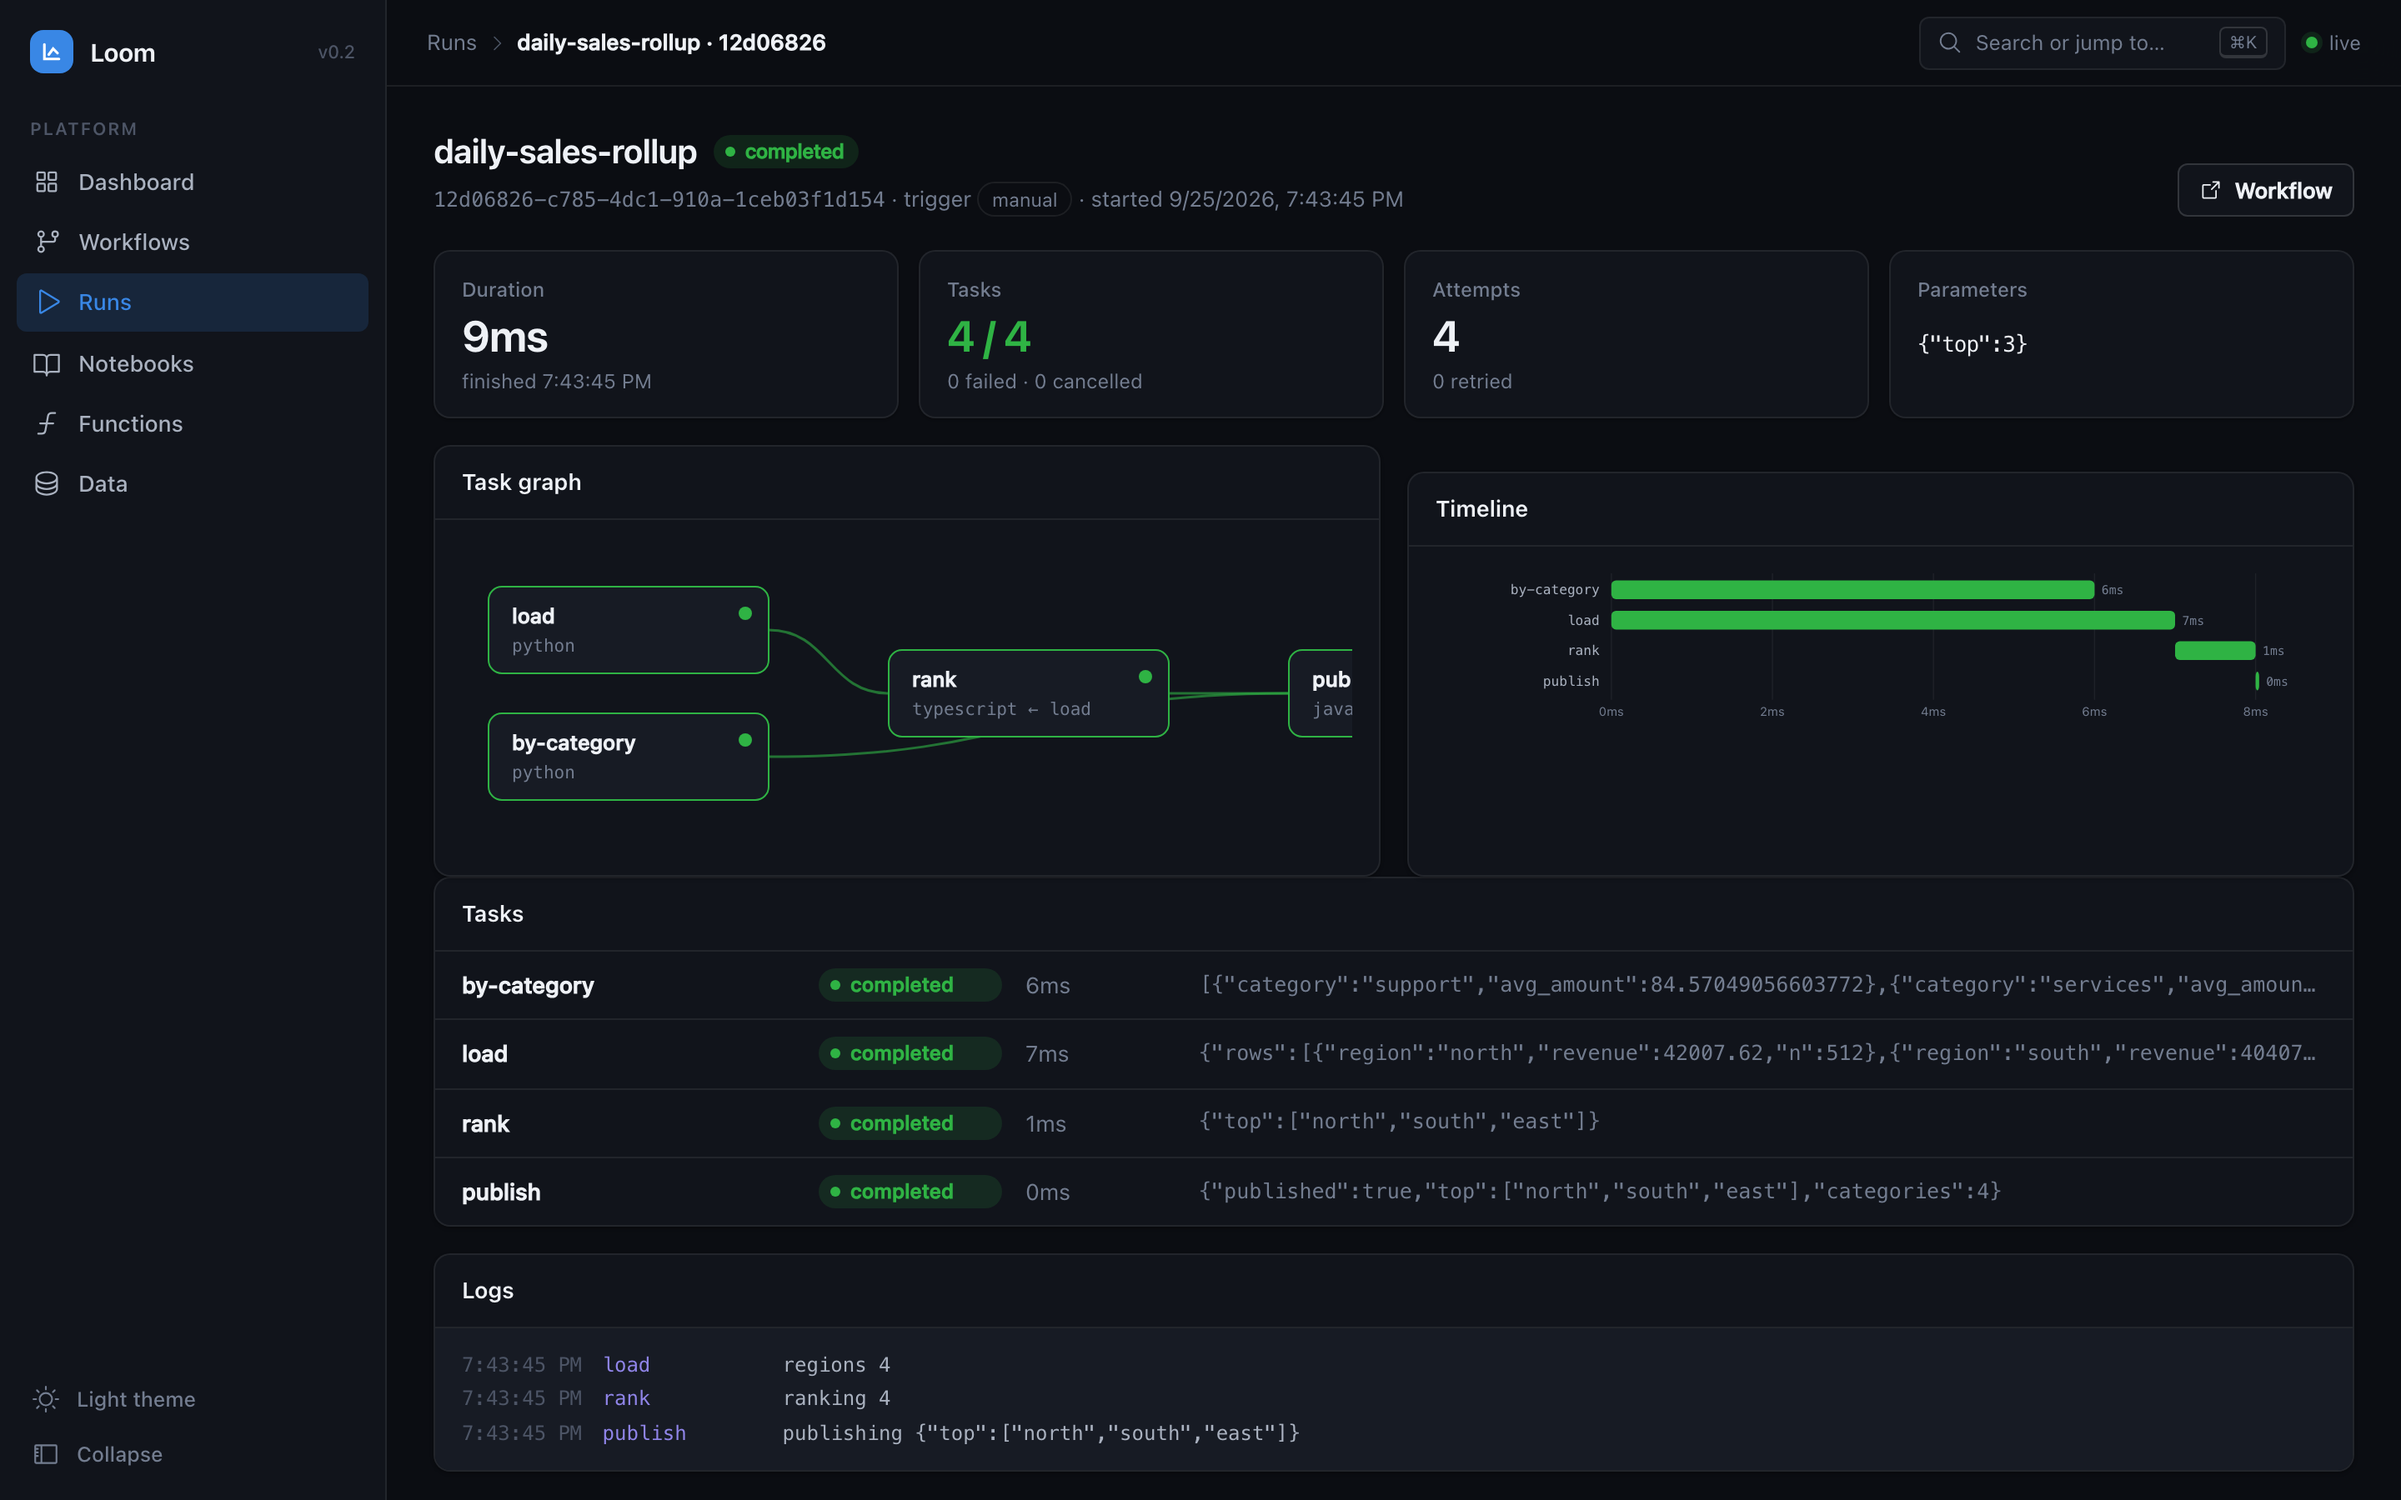
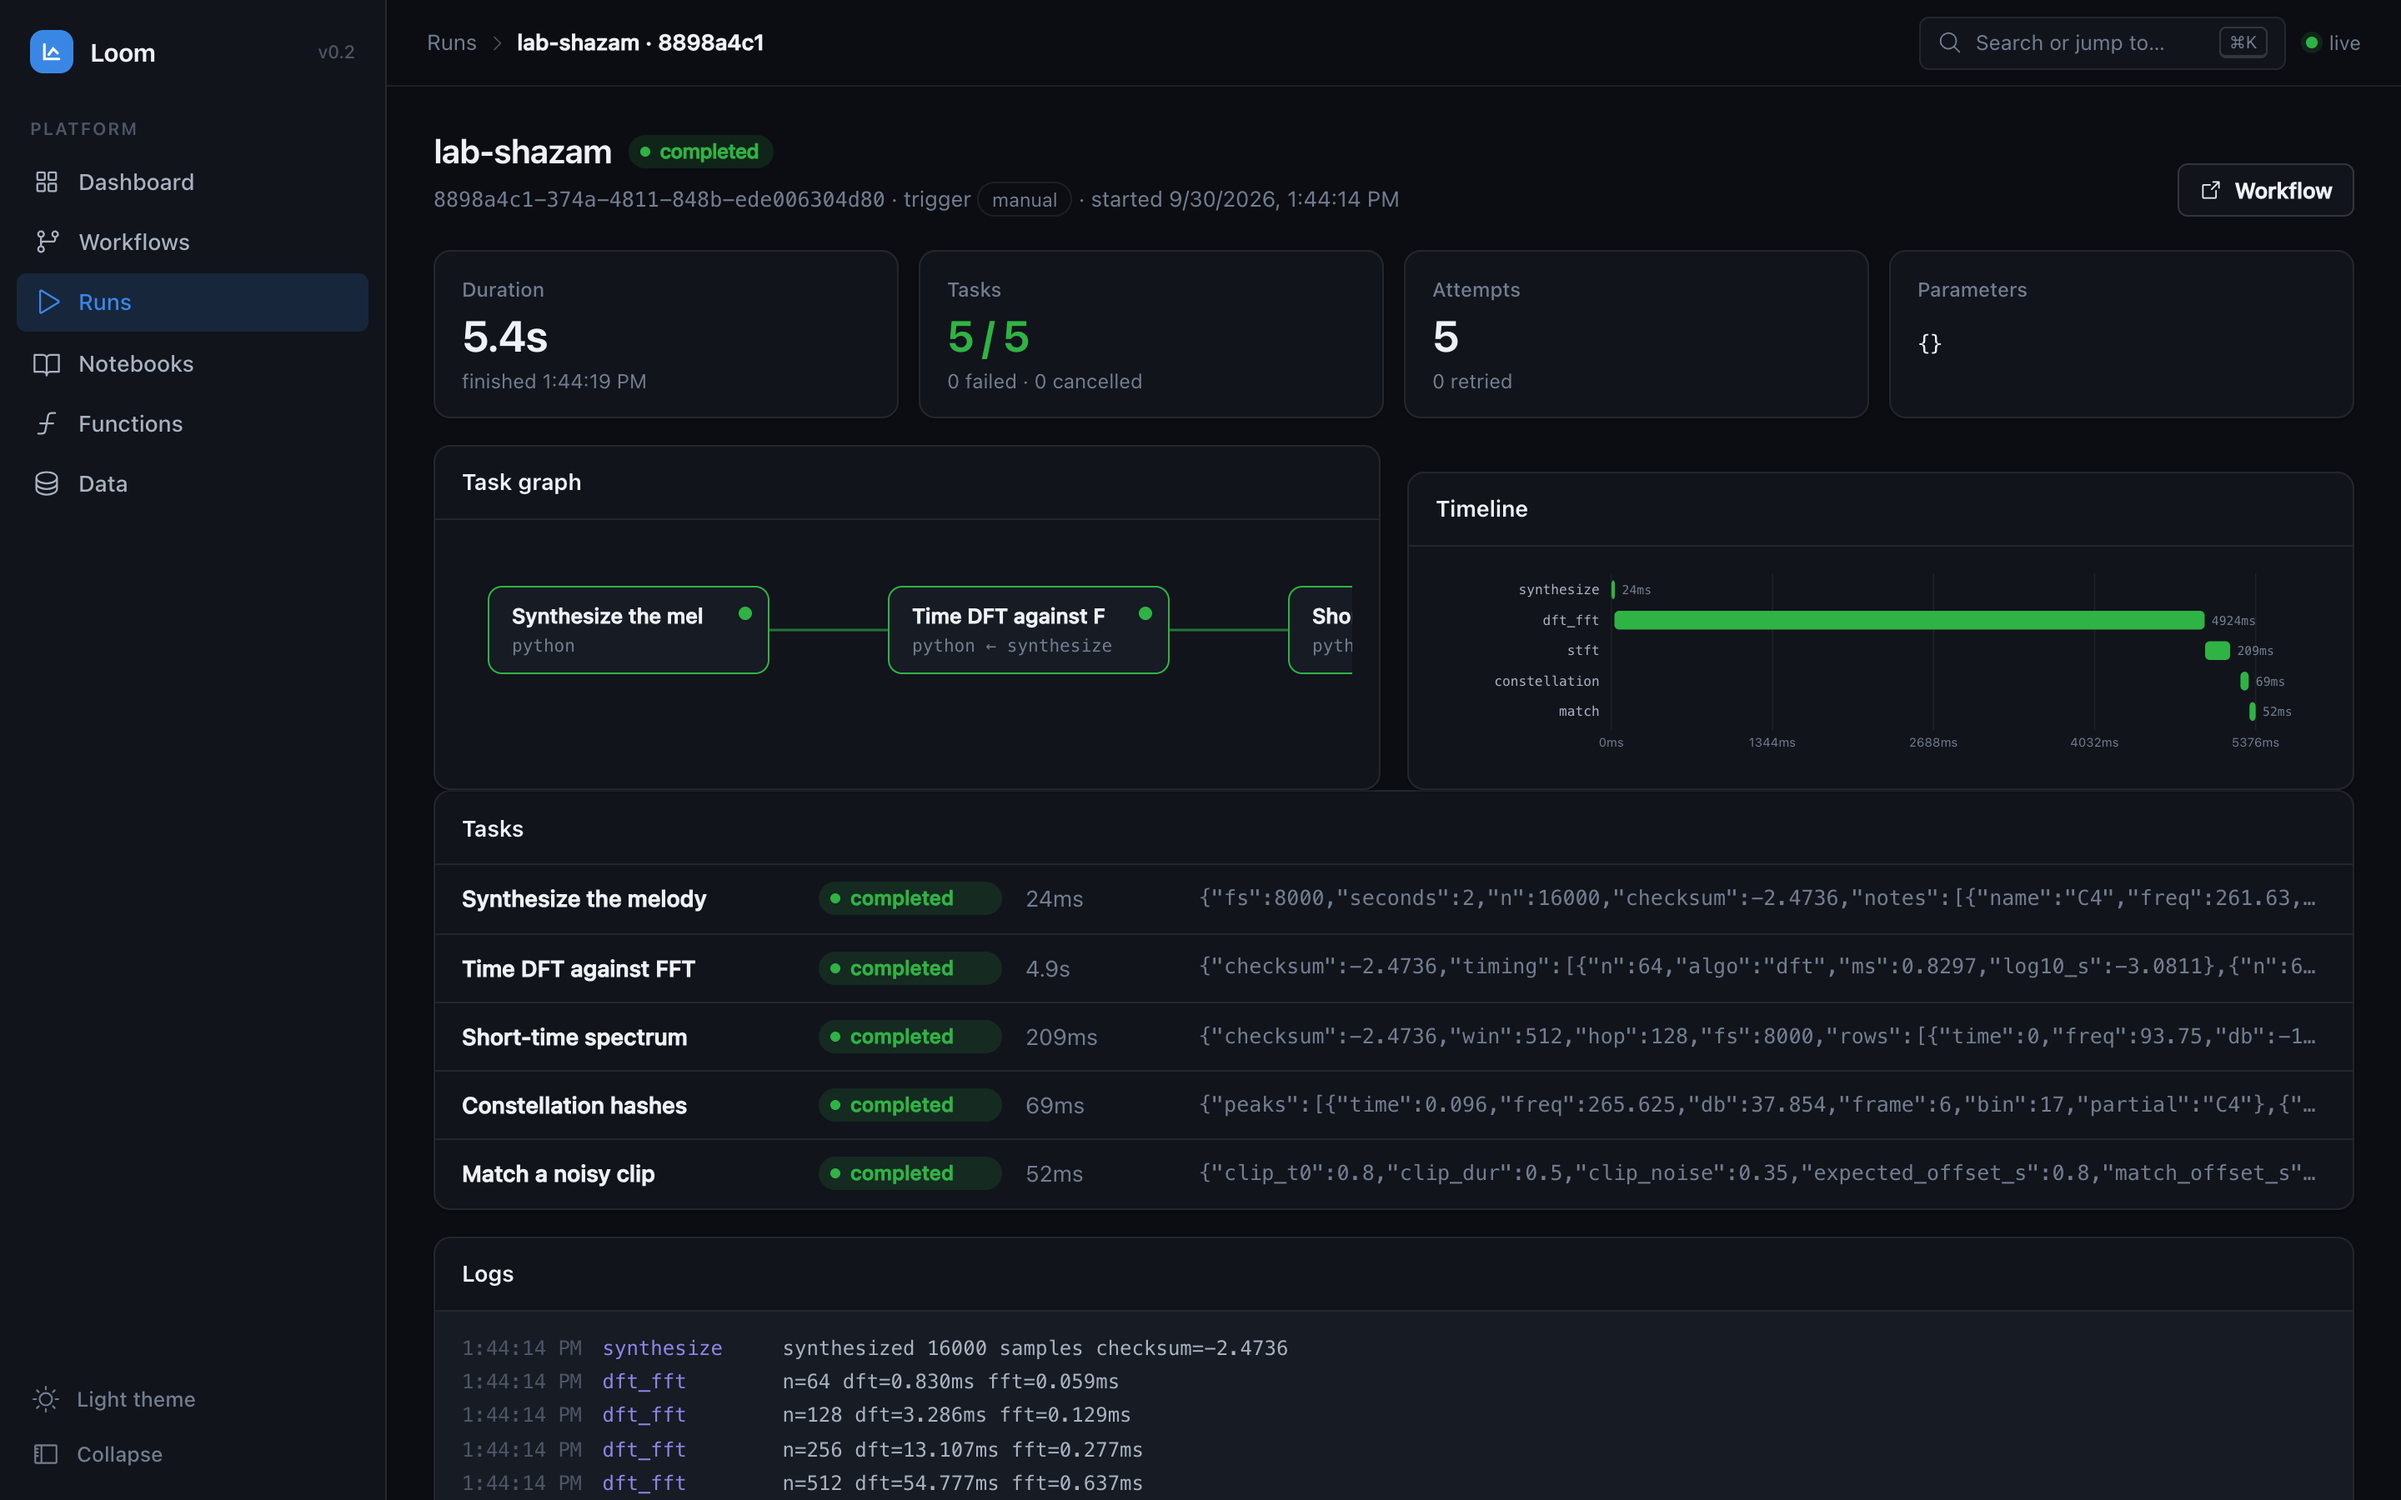
readme: screenshots from the lab workflows (shazam DAG/run, backprop notebook)

diff --git a/README.md b/README.md
@@ -67,13 +67,18 @@ Every screenshot below is the real UI, served by the binary itself.
 
 | Orchestrate | Observe |
 | --- | --- |
-| ![Workflow DAG with duration trend](docs/screenshots/workflow-dag.png) | ![Run detail — task graph + Gantt timeline](docs/screenshots/run-detail.png) |
+| ![lab-shazam workflow — Python + TypeScript DAG with duration trend](docs/screenshots/workflow-dag.png) | ![lab-shazam run — naive DFT vs FFT, spectrogram, fingerprint match on a Gantt timeline](docs/screenshots/run-detail.png) |
 
 | Query | Invoke |
 | --- | --- |
 | ![SQL over ingested datasets](docs/screenshots/data-query.png) | ![Serverless function playground](docs/screenshots/functions.png) |
 
-![Executable notebook — markdown, SQL, and charts](docs/screenshots/notebook.png)
+![Notebook lab — training a neural net from scratch on two spirals: SQL, charts, and the math in markdown](docs/screenshots/notebook.png)
+
+The workflow, run, and notebook above are real "labs" built on Loom: a Shazam-style audio
+fingerprinter (Fourier transforms), PageRank on a synthetic web, and backpropagation from
+scratch — each a Python + TypeScript DAG whose results are ingested, queried with SQL, and
+charted in a teaching notebook.
 
 ## Architecture
 
